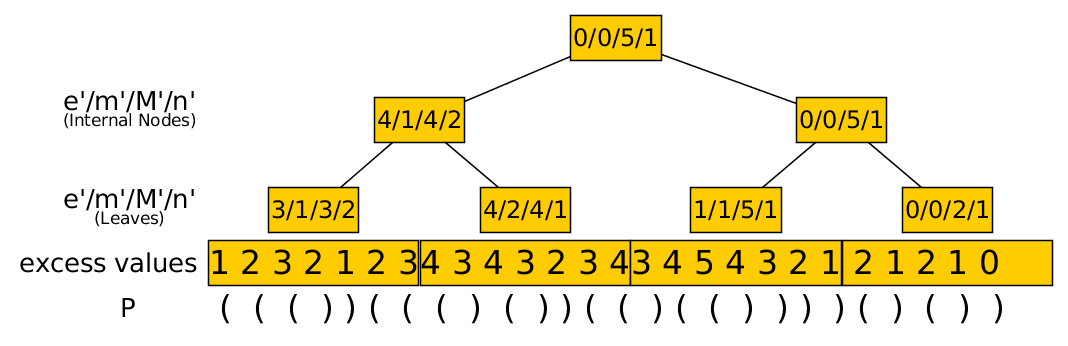
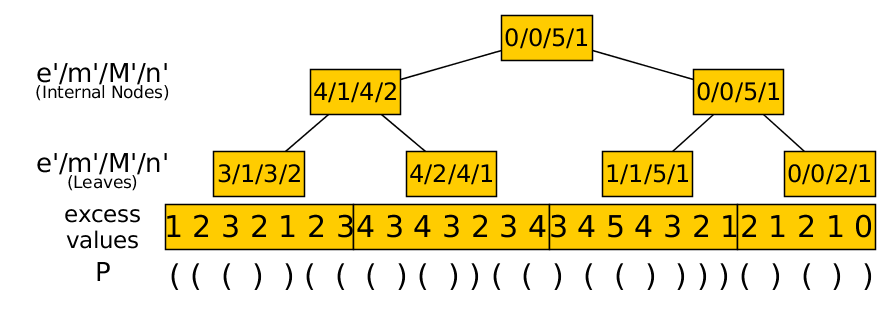
Minors editions: Wrapping figure 1

Changed region(s): [[0.0, 0.0288, 0.9989, 0.9519], [0.0303, 0.2019, 0.1816, 0.375], [0.0908, 0.8365, 0.1513, 0.9231]]

diff --git a/tex/suctrees.tex b/tex/suctrees.tex
@@ -30,11 +30,19 @@ constructing this representation.
 
 The NS-representation is based on the balanced parenthesis sequence
 $P$ of the input tree $T$, which is obtained by performing a preorder
-traversal of $T$ and writing down an opening parenthesis when visiting
-a node for the first time and a closing parenthesis after visiting all
+traversal of $T$ and writing down an opening parenthesis when visiting a node for the 
+\begin{wrapfigure}{l}{0.7\textwidth}
+%\vspace{-20pt}
+\centering
+   \includegraphics[scale=0.28]{./images/Range-min-max-tree.png}
+   \caption{Range min-max tree}
+   \label{fig:RangeMinMaxTree}
+\vspace{-20pt}
+\end{wrapfigure}
+first time and a closing parenthesis after visiting all
 its descendants.  Thus, the length of $P$ is $2n$.
 
-The NS-representation is not the first structure to use balanced
+The NS-representa\-tion is not the first structure to use balanced
 parentheses to represent trees.  Munro and Raman~\cite{mr1997} were
 the first to design succinct representations of balanced parentheses
 and used them to represent ordinal trees succinctly by reducing a set
@@ -91,7 +99,7 @@ the {\tt RMMT} we implemented, we partition $P$ into disjoint chunks
 of size $s = w \lg n$, where $w$ is the machine word size.  For
 simplicity, we assume that the length of $P$ is a multiple of~$s$.
 The {\tt RMMT} is a complete binary tree over the sequence of
-chunks. Each node $u$ of the {\tt RMMT} represents a subsequence $P_u$
+chunks (see Figure \ref{fig:RangeMinMaxTree}). Each node $u$ of the {\tt RMMT} represents a subsequence $P_u$
 of $P$ that is the concatenation of the chunks corresponding to the
 descendant leaves of $u$.  Since the {\tt RMMT} is a complete tree, we
 do not need store to its structure explicitly.  Instead, we index its
@@ -105,7 +113,6 @@ $e'[u]$ stores the excess at the last position in $P_u$.  $m'[i]$ and
 $M'[i]$ store the minimum and maximum excess at any position in $P_u$,
 respectively.  $n'[i]$ stores the number of positions in $P_u$ that
 have the minimum excess value $m'[i]$.
-
 % \begin{figure}[t]
 %   \centering
 %   \includegraphics[scale=0.26]{./images/Range-min-max-tree.png}

diff --git a/tex/resultsDiscussion.tex b/tex/resultsDiscussion.tex
@@ -23,6 +23,7 @@ attributed to (1) lack of tuning of {\tt psta} and (2) some overhead
 with running parallel code on a single core.
 
 \begin{figure}
+\vspace{-10pt}
   \begin{minipage}[b]{0.47\textwidth}
     \setlength{\tabcolsep}{0pt}
     \begin{tabular}{c@{\hspace{1em}}r@{ }r@{ }r@{ }r@{ }r}
@@ -55,6 +56,7 @@ with running parallel code on a single core.
     \captionof{figure}{Speed-up on {\tt ctree} and {\tt osm}
       data sets.\label{fig:speedup}}
   \end{minipage}
+\vspace{-20pt}
 \end{figure}
 
 Up to 16 cores, the speed-up of {\tt psta} is almost linear whenever $p$ is a
@@ -98,8 +100,8 @@ which allowed the remaining cores to be used exclusively by {\tt psta}.
 For $p = 64$, {\tt psta} competed with the OS for available cores.
 This had a detrimental effect on the efficiency of {\tt psta} for $p = 64$.
 
+\vspace{-13pt}
 \subsubsection{Memory usage.}
-
 We measured the amount of working memory (i.e., memory not occupied by the raw
 parenthesis sequence) used by {\tt psta}, {\tt libcds}, and {\tt sdsl}.
 We did this by monitoring how much memory was allocated/released with

diff --git a/tex/sea2015.tex b/tex/sea2015.tex
@@ -60,7 +60,7 @@
   \email{\{mhe,nzeh\}@cs.dal.ca}}
 
 \maketitle
-
+\vspace{-20pt}
 \begin{abstract}
   Succinct representations of trees have been an elegant solution to
   make large trees fit in main memory while still supporting
@@ -96,6 +96,7 @@
 
 \section{Preliminaries}
 \label{sec:relwork}
+\vspace{-10pt}
 \input{relwork}
 
 \subsubsection{Succinct trees.}
@@ -157,10 +158,12 @@
 \label{sec:conclusion}
 \input{conclusion}
 
+\vspace{-10pt}
 \subsubsection*{Acknowledgements.}
 We would like to thank Diego Arroyuelo, Roberto As\'{i}n , and Rodrigo
 C\'{a}novas for their time and making resources available to us.
 
+\vspace{-10pt}
 \bibliographystyle{splncs03}
 \bibliography{sigproc}
 

diff --git a/tex/multicoreSTAlgorithm.tex b/tex/multicoreSTAlgorithm.tex
@@ -193,6 +193,7 @@ cost is also negligible in practice.
 \normalsize
 \vspace{-20pt}
 \end{figure}
+%\vspace{-15pt}
 
 Before describing the {\tt PSTA} algorithm, we observe
 that, the entries in $e'$ that correspond to the internal nodes of the
